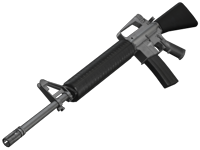
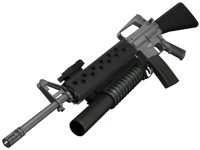
M16 nun immer mit Granatenwerfer. Granaten der M16 modifiziert. Klasse mit M16 nun zusätzliche Granatenmunition.

diff --git a/cmcrepos/ModernCombat.c4d/Items.c4d/Firearms.c4d/M16.c4d/Script.c b/cmcrepos/ModernCombat.c4d/Items.c4d/Firearms.c4d/M16.c4d/Script.c
@@ -3,8 +3,6 @@
 #strict
 #include WPN2
 
-local attachment;
-
 public func HandSize()      { return(1000); }
 public func HandX()         { return(5000); }
 public func HandY()         { return(2000); }
@@ -19,6 +17,9 @@ func OnReload(i)
     
   if(i == 2)
     Sound("M203_Reload.ogg");
+    var user = GetUser();
+    var dir = GetDir(user)*2-1;
+    SABulletCasing(dir*1,0,-dir*14*(Random(1)+1),-(13+Random(2)));
 }
 
 func OnSelect()
@@ -122,7 +123,7 @@ public func FMData2(int data)
   if(data == FM_AmmoID)   return(GRAM);
   if(data == FM_AmmoLoad) return(1);
 
-  if(data == FM_Reload)   return(80);
+  if(data == FM_Reload)   return(70);
   if(data == FM_Recharge) return(1);
 
   if(data == FM_Damage)   return(20);
@@ -130,9 +131,6 @@ public func FMData2(int data)
   if(data == FM_Slot)    return(2);//Der Granatenwerfer benutzt den zweiten Slot.
   
   if(data == FM_Icon) return(M203);
-  
-  if(data == FM_Condition) return(attachment == M203);
-  if(data == FM_Aim) return(3);
   
   if(data == FM_SpreadAdd) return(50);
   if(data == FM_StartSpread) return(80);
@@ -155,7 +153,7 @@ public func FMData2T2(int data)
   if(data == FM_AmmoLoad)             return(2);
   if(data == FM_AmmoUsage)            return(2);
   if(data == FM_Icon)                 return(M23C);
-  if(data == FM_Reload)               return(100);
+  if(data == FM_Reload)               return(70);
   return(FMData2(data));
 }
 
@@ -202,49 +200,11 @@ public func LaunchGrenade(id idg, int speed, int angle, int mode)
   // effect
   grenade->Sound("M203_Fire*.ogg");
 
-  CreateParticle("Thrust",x,y,/*GetXDir(user)*/,/*GetYDir(user)*/,15,RGBa(255,200,200,0),0,0);
+  CreateParticle("Thrust",x,y,GetXDir(user),GetYDir(user),80,RGBa(255,200,200,0),0,0);
 
-  for(var i=0; i<6; ++i)
-  {
-    CreateParticle("Smoke2",x+RandomX(-2,+2),y+RandomX(-2,+2),
-                   /*GetXDir(user)+*/RandomX(0,xdir/8),/*GetYDir(user)+*/RandomX(0,ydir/8),
-                   RandomX(15,50),RGBa(200,200,200,0),0,0);
-  }
-}
-  
-  
-//Tuning. :>
-public func IsUpgradeable(id uid)
-{
-  if(GetUpgrade(uid))
-    return(false);
-    
-  if(attachment)
-    return(false);
-  
-  if(uid == KRFL) return("$KRFLUpgradeDesc$");
-}
-
-public func OnUpgrade(id uid)
-{
-  var own = GetOwner(Contained());
-  if(uid == KRFL)
-  {
-    SetGraphics("M203");
-    attachment = M203;
-    SetFireMode(2);
-    if(Contained()) HelpMessage(own, "$KRFLUpgraded$", Contained());
-    return(true);
-  }
-}
-
-public func OnDowngrade(id uid)
-{
-  if(uid == KRFL)
-  {
-    SetGraphics();
-    attachment = 0;
-    SetFireMode(1);
-    return(true);
+  for(var i=0; i<20; ++i) {
+    CreateParticle("Smoke2",x+RandomX(-5,+5),y+RandomX(-5,+5),
+                   GetXDir(user)+RandomX(0,xdir/4),GetYDir(user)+RandomX(0,ydir/4),
+                   RandomX(80,140),RGBa(200,200,200,0),0,0);
   }
 }

diff --git a/cmcrepos/ModernCombat.c4d/System.c4g/Classes.c b/cmcrepos/ModernCombat.c4d/System.c4g/Classes.c
@@ -19,10 +19,11 @@ private func Class1Setup(int iPlr)
 {
   var new = CreateObject(PCMK,0,0,iPlr);
   DoAmmo(STAM,100,new);
+  DoAmmo(GRAM,12,new);
   new->CreateContents(M16A);
   new->CreateContents(92FS);
   CreateObject(FGRN,0,0,iPlr)->Activate(new);
-  CreateObject(FGRN,0,0,iPlr)->Activate(new);
+  CreateObject(FGRN,0,0,iPlr);
   return(new);
 }
 
@@ -43,7 +44,7 @@ private func Class2Setup(int iPlr)
   DoAmmo(STAM,100,new);
   new->CreateContents(P29W);
   new->CreateContents(92FS);
-  CreateObject(STUN,0,0,iPlr)->Activate(new);
+  CreateObject(STUN,0,0,iPlr);
   return(new);
 }
 
@@ -66,7 +67,7 @@ private func Class3Setup(int iPlr)
   new->CreateContents(PPGN);
   new->CreateContents(RSHL);
   CreateObject(FRAG,0,0,iPlr)->Activate(new);
-  CreateObject(FRAG,0,0,iPlr)->Activate(new);
+  CreateObject(FRAG,0,0,iPlr);
   return(new);
 }
 
@@ -88,7 +89,7 @@ private func Class4Setup(int iPlr)
   new->CreateContents(MP7R);
   new->CreateContents(RSHL);
   CreateObject(SGRN,0,0,iPlr)->Activate(new);
-  CreateObject(SGRN,0,0,iPlr)->Activate(new);
+  CreateObject(SGRN,0,0,iPlr);
   return(new);
 }
 
@@ -110,7 +111,7 @@ private func Class5Setup(int iPlr)
   DoAmmo(STAM,200,new);
   new->CreateContents(M249);
   CreateObject(FRAG,0,0,iPlr)->Activate(new);
-  CreateObject(SGRN,0,0,iPlr)->Activate(new);
+  CreateObject(SGRN,0,0,iPlr);
   return(new);
 }
 
@@ -128,12 +129,12 @@ private func Class6Info(int iData)
 
 private func Class6Setup(int iPlr)
 {
-  var new = CreateObject(PCMK,0,0,iPlr);
+  var new = CreateObject(MDIC,0,0,iPlr);
   DoAmmo(STAM,50,new);
   new->CreateContents(P29W);
   new->CreateContents(PDTW);
   new->CreateContents(FAPK);
   CreateObject(STUN,0,0,iPlr)->Activate(new);
-  CreateObject(STUN,0,0,iPlr)->Activate(new);
+  CreateObject(STUN,0,0,iPlr);
   return(new);
 }
